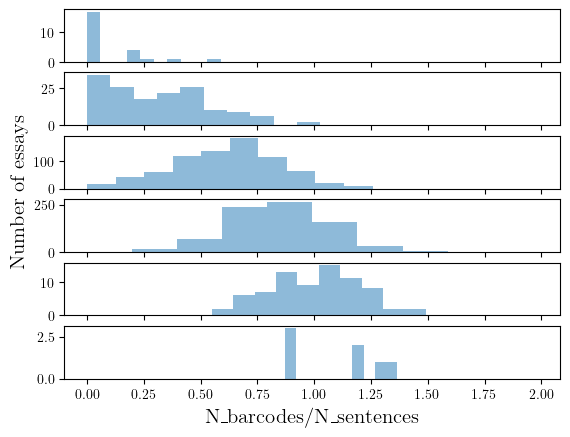
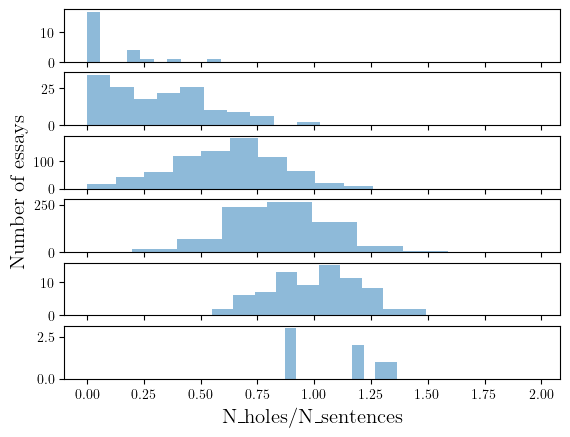
lalal

Changed region(s): [[0.3579, 0.9222, 0.7456, 0.9817]]

diff --git a/rapport/tda.tex b/rapport/tda.tex
@@ -2,7 +2,7 @@
 
 In this section we introduce a method for analysing a text
 without a parameter (e.g.\ k in KNN). In fact, we consider all
-the possibilities of parameters. Moreover, we want to be able to
+the thresholds ranging from 0 to infinity. Moreover, we want to be able to
 find a meaningful correspondence between the computation and
 the text. We use persistent homology.
 
@@ -30,24 +30,29 @@ in different angles, the last paragraph echos to the beginning etc.).
 Translated in persistent homology,
 if a good essay is a topological space, it should have
 many holes (homology groups). For example,
-in Figure~\ref{apple}, the essay have a statement, and then some arguments,
-, finally a conclusion. 1 - 2 - 3 - 4 are linked by time order, 1 - 4 are linked because they are similar.
+in Figure~\ref{apple}, On the right, the essay have a statement, and then some arguments,
+finally a conclusion.
+On the left, each point represents a point
+1 - 2 - 3 - 4 are linked by time order, 1 - 4 are linked because they are similar (within certain range of distance).
 This hole means good argument. There are also filled triangles (2-simplices), those
 sentences form clusters, so they are filled instead of forming holes.
-(We are going to introduce how to build concretely simplicial complexes very soon.)
 
 \begin{figure}[H]
-  \centering
+  \begin{minipage}{0.80\textwidth}
   \input{apple.tex}
+  \end{minipage}
+  \begin{minipage}{0.19\textwidth}
+  $\cdots$I like apple. It is healthy. It is yummy. So I eat an apple every day.
+  $\cdots$
+  \end{minipage}
   \caption{There are 2 holes in this simplicial complex,
   one represented by the blue cycle and one by brown.
   Note that the brown cycle and the green cycle are homology equivalent, so they count as one.}
   \label{apple}
 \end{figure}
 
-If we only have one such graph, we will have to determine the similarity to link.
-However, different similarity bars can give different simplicial complexes and have
-different homology groups. Structure changes with scale, e.g.\ Figure~\ref{fig:scale}.
+If we only have one such graph, we will have to determine the similarity threshold to link.
+However, different thresholds can give different insights. Structure changes with scale, e.g.\ Figure~\ref{fig:scale}.
 So our approache will consider all the scales (whence ``persistent'' homology).
 
 \begin{figure}[H]
@@ -58,44 +63,22 @@ So our approache will consider all the scales (whence ``persistent'' homology).
 \end{figure}
 
 \begin{figure}[H]
-  \centering
-  \input{tda_diagram.tex}
-  \caption{Filtration gives persistence module gives decomposition gives barcodes}
-  \label{fig:tda_diagram}
-  \end{figure}
+\centering
+\input{filtration.tex}
+\caption{We continue linking and filling (e.g.\ triangles) when the $d$ increases; note that
+we may have multiple linkings and fillings to do within a same $d$ but we discretize these
+for the algorithm}
+\label{filtration}
+\end{figure}
 
-\paragraph{Similarity Filtration with Time Skeleton (SIFTS) \cite{Zhu_2013}}
+The algorithm is the following (for the exact version \ref{sifts}) :
 
-As in KNN we choose an embedding and a
-distance. Then we construct a filtration (a sequence of inclusions
-of simplical complexes) of Rips Complexes.
-
-\begin{definition}[Rips complex]
-  Given a symmetric matrix $M \in M_n(R^+)$, we define a filtration of Rips complexes
-  $$
-  (V_d := \{A \subset \llbracket 1, n\rrbracket :
-  \forall 1\le i<j\le n, M_{i, j} \le d\})_{d\ge 0}
-  $$
-\end{definition}
-\RM A simplex appears when the last appearance of the its faces happens.
-
-Given an essay, we split it to sentences in order. We embed each sentence by tf-idf.
-Then we construct our matrix $M$ by setting $M_{i, j} = 1-\cos(\theta_{i,j})~\text{(the cosine distance)}$
-where $\theta_{i, j}$ is the angle between the vectors embedded by the ith and jth sentences.
-Then we set $M_{i, i+1} = 0$ (this is where the ``time skeleton'' come from, the reason is
-to preserve the order of the essay). We obtain then
-a filtration of Rips complexes.
-In the filtration, what all this means is that,
-at index 0, we will have a skeleton from the first sentence to the last sentence,
-then we add simplexes with closer points then those with further points.
-
-After having the filtration, we count the ``number of holes'' of dimension 1
-that appears in the filtration (this is formally the \textbf{number of
-barcodes} of dimension 1 after we decompose the persistence module
-induced by the filtration c.f.\ Figure~\ref{fig:tda_diagram}).
-Note that if we just count the number of holes at each index for the filtration,
-it would be trivial and not useful, we have to be able to identity the holes
-throughout the filtration so that we don't count a hole twice.
+We vary $d$ from $0$ to $1$, for every $d$ we create a graph like Figure~\ref{apple}
+(points representing sentences are linked first in order in the essay,
+then we link sentences whose differences are lower than $d$,
+we fill triangles, tetrahedron, etc. as shown in Figure~\ref{filtration}) What we will get is
+$(V_d)_{0\le d\le 1}$, a filtration of graphes one included in another while $d$ increases.
+Then there are holes who appear and disappear, we count the number of total appearance of holes.
 
 We hope to show that this number of holes reflects the quality of arguments of an essay.
 
@@ -109,12 +92,12 @@ data source (more precisely, the essay set 2, which is discoursive) :
 \includegraphics[width=8cm]{pdessay.png}
 \end{minipage}
 \begin{minipage}{0.49\linewidth}
-In @DATE1's world, there are many things found offensive.  Everyone has their own opinion on what is offensive and what is not. Many parents are becoming upset because they think their children are viewing things that they should not.  Other people are upset because they think the libraries are offending their culture or way of life.  This is even taken to the extreme where people want censhorship on libraries to avoid this, which is wrong.     Some people are becoming concerned about the materials in libraries.  They find these things to be offensive.  Everyone is entitled to their own opinion, but there really is nothing anyone can do if someone is offended.  The world is a public place and everywhere we go, something might be found offensive.  The library is a place for study.  It is never intended to offend someone, or bring bad to the world.  It is simply a place to inform, and if someone is offended by what they see, they should stay away from the library.     I have been to the library many times, none of which have I ever seen anything offensive.  Everything I have ever witnessed at the library is for learning and research...
+In @DATE1's world, there are many things found offensive.  Everyone has their own opinion on what is offensive and what is not. Many parents are becoming upset because they think their children are viewing things that they should not.  Other people are upset because they think the libraries are offending their culture or way of life.  This is even taken to the extreme where people want censhorship on libraries to avoid this, which is wrong.     Some people are becoming concerned about the materials in libraries...($\sim$450 words)
 \end{minipage}
-\caption{The persistence diagram of an essay of grade 4/6 : A point $(x, y)$ in this diagram corresponds to
-a interval module of extremities $x, y$ in the homology of certain degree.
-We have many blue points meaning many holes in dim 1, one red point meaning
-one homology group of dim 1
+\caption{The persistence diagram of an essay of grade 4/6 : A blue point $(x, y)$ in this diagram means
+that there is a hole appears at $d=x$ and disappears at $d=y$.
+One red point meaning there is only one connected component the whole time,
+because we link all the sentences by order in the essay.
 }
 \label{fig:pd}
 \end{figure}
@@ -125,7 +108,7 @@ one homology group of dim 1
 \begin{tikzpicture}
   \begin{axis}[
     xlabel={Grades},
-    ylabel={Average of number of barcodes dim 1},
+    ylabel={Average of number of holes},
     grid=both,
     xmin=0,
     ymin=0,
@@ -147,11 +130,11 @@ one homology group of dim 1
     };
   \end{axis}
 \end{tikzpicture}
-\caption{Number of barcodes increases as grade increases}
+\caption{Number of holes increases as grade increases}
 \label{fig:ds}
 \end{figure}
 
-Those are some discoursive essays on the topic of offense/censorship. We first inspect
+Those are some discoursive essays on the topic of offense/censorship graded 1-6. We first inspect
 an essay with grade 4/6 as an example Figure~\ref{fig:pd}. Then we show
 the average of number of holes for each grade (1-6)
 as well as the average of number of barcodes for each grade (Figure~\ref{fig:ds}).
@@ -190,7 +173,10 @@ In conclusion, while in Figure~\ref{fig:ads} we have enough essays as example wi
 the method(division) is not rigorously convincing, and in Figure~\ref{tab:gar} we don't
 have enough essays for each range though the method is solid, with them combined,
 we are confident that the number of barcodes of dim 1 is a good mesure of the quality of
-argument structure of an essay.
+argument structure of an essay. While we changed our task for applying
+this topological representation of text, this task can not be achieved by
+KNN or Naive Bayes either, because they would both totally ignore
+the structure of an essay.
 
 \paragraph{Further} We may provision studying the identification of type
 of arguments (or in previous case, type of comments) by exploiting persistent homology structure,
@@ -281,6 +267,12 @@ we may link the points in the set to form a simplicial complex.
 The way in which we link the points change our view of the underlying structure.
 The scale matters Figure~\ref{fig:scale}.
 
+\begin{figure}[H]
+  \centering
+  \input{tda_diagram.tex}
+  \caption{Filtration gives persistence module gives decomposition gives barcodes}
+  \label{fig:tda_diagram}
+\end{figure}
 
 \begin{definition}[Filtration]
   A filtration over $T$ is a family $\F = (F_t)_{t\in T}$ of increasing topological spaces:
@@ -294,7 +286,7 @@ The scale matters Figure~\ref{fig:scale}.
   endowed with linear application $v_t^{t^{\prime}}: V_t \rightarrow V_{t^{\prime}}$ induced by
   a filtration by being applied $H_k$ (e.g.\ Figure~\ref{fig:tda_diagram}).
 
-  $\I_{[l, r)}$(or $\I_{[l, r]}$ etc.) is an interval module with $T = [l, r)$,
+  $\I_{[l, r)}$(the interval can be open/close at 2 ends) is an interval module with $T = [l, r)$,
   $(V_t)_t = (\K)_t$, $(v^{t'}_t) = (\id)$.
 \end{definition}
 
@@ -355,6 +347,36 @@ such base a posteriori in this way).
 So the pairing is right.
 
 \end{proof}
+
+\subsubsection{Similarity Filtration with Time Skeleton (SIFTS) \cite{Zhu_2013}}
+\label{sifts}
+As in KNN we choose an embedding and a
+distance. Then we construct a filtration of Rips Complexes.
+
+\begin{definition}[Rips complex]
+  Given a symmetric matrix $M \in M_n(R^+)$, we define a filtration of Rips complexes
+  $$
+  (V_d := \{A \subset \llbracket 1, n\rrbracket :
+  \forall 1\le i<j\le n, M_{i, j} \le d\})_{d\ge 0}
+  $$
+\end{definition}
+\RM A simplex appears when the last appearance of the its faces happens.
+
+Given an essay, we split it to sentences in order. We embed each sentence by tf-idf.
+Then we construct our matrix $M$ by setting $M_{i, j} = 1-\cos(\theta_{i,j})~\text{(the cosine distance)}$
+where $\theta_{i, j}$ is the angle between the vectors embedded by the ith and jth sentences.
+Then we set $M_{i, i+1} = 0$ (whence ``time skeleton'', the reason is
+to preserve the order of the essay). We obtain then
+a filtration of Rips complexes.
+In the filtration, what all this means is that,
+at index 0, we will have a skeleton from the first sentence to the last sentence,
+then we add simplexes with closer points then those with further points.
+
+Then we decompose persistence module induced by the filtration in dim 1,
+the number of interval modules is what we called earlier the number of holes.
+Note that if we just count the number of holes at each index for the filtration,
+it would be trivial and not useful, we have to be able to identity the holes
+throughout the filtration so that we don't count a hole twice.
 
 \subsubsection{Stability theorem}
 

diff --git a/rapport/filtration.tex b/rapport/filtration.tex
@@ -1,0 +1,48 @@
+\begin{tikzpicture}[scale=0.4]
+
+  \coordinate (v1) at (0,0);
+  \coordinate (v2) at (0,3);
+  \coordinate (v3) at (3,0);
+  \coordinate (v4) at (3,3);
+  \draw (v1) -- (v2);
+  \draw (v3) -- (v4);
+  \draw (v1) -- (v3);
+
+  \coordinate (w1) at (8+0,0);
+  \coordinate (w2) at (8+0,3);
+  \coordinate (w3) at (8+3,0);
+  \coordinate (w4) at (8+3,3);
+  \draw (w1) -- (w2);
+  \draw (w3) -- (w4);
+  \draw (w1) -- (w3);
+  \draw (w2) -- (w4);
+  \draw[->] (4,1.5) -- (7,1.5);
+
+  \coordinate (u1) at (16+0,0);
+  \coordinate (u2) at (16+0,3);
+  \coordinate (u3) at (16+3,0);
+  \coordinate (u4) at (16+3,3);
+  \draw (u1) -- (u2);
+  \draw (u3) -- (u4);
+  \draw (u1) -- (u3);
+  \draw (u2) -- (u4);
+  \draw (u1) -- (u4);
+  \draw[->] (12,1.5) -- (15,1.5);
+
+  \coordinate (uu1) at (24+0,0);
+  \coordinate (uu2) at (24+0,3);
+  \coordinate (uu3) at (24+3,0);
+  \coordinate (uu4) at (24+3,3);
+  \draw (uu1) -- (uu2);
+  \draw (uu3) -- (uu4);
+  \draw (uu1) -- (uu3);
+  \draw (uu2) -- (uu4);
+  \draw (uu1) -- (uu4);
+  \filldraw[fill=gray] (uu1) -- (uu4) -- (uu2);
+  \draw[->] (20,1.5) -- (23,1.5);
+
+  \foreach \vertex in {v1,v2,v3,v4,w1,w2,w3,w4,
+  u1,u2,u3,u4,
+  uu1,uu2,uu3,uu4}
+    \fill (\vertex) circle (5pt);
+\end{tikzpicture}

diff --git a/rapport/rapport.tex b/rapport/rapport.tex
@@ -52,9 +52,10 @@
 \newcommand{\RM}[1]{\paragraph{RM} #1}
 \DeclareMathOperator{\conv}{conv}
 \DeclareMathOperator{\id}{id}
-
+\title{Text Representation and Application}
+\author{SAMAHA Elio, MARIE Clément, XIA Tianxiang}
 \begin{document}
-
+\maketitle
 \tableofcontents
 \newpage
 \section{Introduction - Motivation}

diff --git a/rapport/apple.tex b/rapport/apple.tex
@@ -1,5 +1,3 @@
-
-
 \tikzset{every picture/.style={line width=0.75pt}} %set default line width to 0.75pt        
 
 \begin{tikzpicture}[x=0.75pt,y=0.75pt,yscale=-1,xscale=1]
